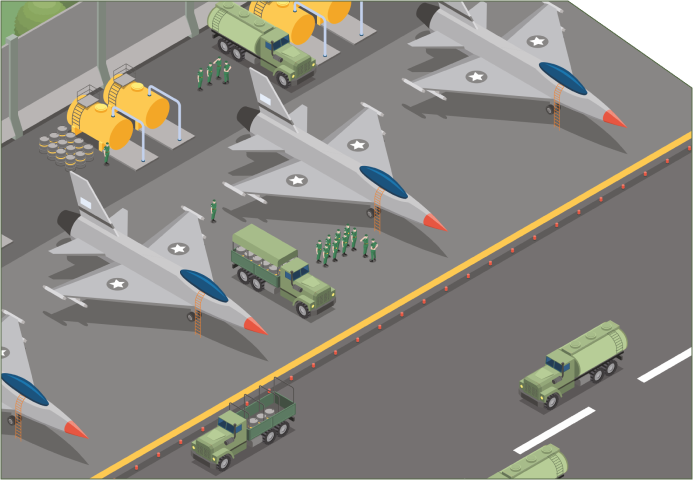
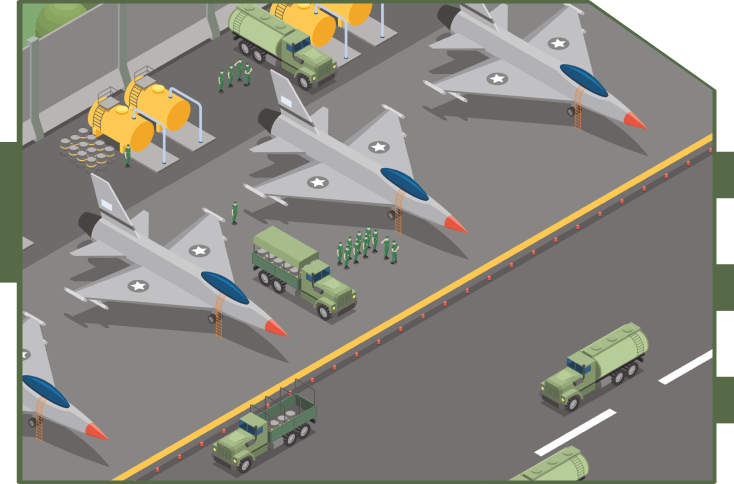
'For wings', 'In unity' and footer.

diff --git a/src/components/Wings/Wings.module.css b/src/components/Wings/Wings.module.css
@@ -4,7 +4,6 @@
 }
 
 .wings-wrapper {
-    padding-top: 100px;
     color: var(--white);
     font-family: var(--bold-font-family);
 }
@@ -21,7 +20,7 @@
     display: flex;
     justify-content: space-between;
     margin: 100px 0;
-    height: 480px;
+    gap: 20px;
 }
 
 .wings-text {
@@ -38,25 +37,18 @@
 
 .wings-block1 {
     position: relative;
-    flex: 1 1 40%;
+    flex: 0 0 40%;
     background-image: url('../../assets/img/wings/wings-vector_1.svg');
     background-size: 100% 100%;
     background-repeat: no-repeat;
 }
 
 .wings-block2 {
-    flex: 1 1 60%;
-    background-image: url('../../assets/img/wings/wings-vector_2.svg');
+    position: relative;
+    flex: 0 0 57%;
+    background-image: url('../../assets/img/wings/airfield.png');
     background-size: 100% 100%;
     background-repeat: no-repeat;
-}
-
-.wings-block2-img {
-    background-image: url('../../assets/img/wings/airfield.png');
-    background-repeat: no-repeat;
-    margin-top: 2px;
-    margin-left: 40px;
-    background-size: 94.5% 99%;
 }
 
 .wings-block1-text {
@@ -70,7 +62,6 @@
 }
 
 .wings-block2-content {
-    height: 480px;
     display: flex;
     flex-direction: column;
     align-items: center;
@@ -91,4 +82,56 @@
     text-decoration: none;
     font-family: var(--bold-font-family);
     color: var(--button-dark-default);
+}
+
+@media (max-width: 992px) {
+    .wings-block1-text {
+        font-size: 35px;
+        line-height: 1.2;
+    }
+
+    .wings-block2-button {
+        font-size: 25px;
+        margin: 20px 0;
+        padding: 15px 30px;
+    }
+}
+
+@media (max-width: 768px) {
+    .wings-content-wrapper {
+        flex-direction: column;
+        margin: 60px 0;
+    }
+
+    .wings-block1 {
+        min-height: 340px;
+    }
+
+    .wings-block1-text {
+        font-size: 35px;
+        line-height: 1.2;
+    }
+
+    .wings-text {
+        font-size: 30px;
+        line-height: 1.2;
+    }
+}
+
+@media (max-width: 480px) {
+    .wings-block1-text {
+        font-size: 30px;
+    }
+
+    .wings-content-wrapper {
+        margin: 40px 0;
+    }
+
+    .wings-block2-content img {
+        margin-top: -150px;
+    }
+
+    .wings-text {
+        font-size: 20px;
+    }
 }

diff --git a/src/components/Wings/Wings.jsx b/src/components/Wings/Wings.jsx
@@ -17,19 +17,16 @@ const Wings = () => {
               </p>
             </div>
             <div className={styles["wings-block2"]}>
-              <div className={styles["wings-block2-img"]}>
-                <div className={styles["wings-block2-content"]}>
-                  <img src={cotton} alt="cotton" />
-                  <button className={styles["wings-block2-button"]}>
-                    <a href="#">Донат на крила</a>
-                  </button>
-                </div>
+              <div className={styles["wings-block2-content"]}>
+                <img src={cotton} alt="cotton" />
+                <button className={styles["wings-block2-button"]}>
+                  <a href="#">Донат на крила</a>
+                </button>
               </div>
             </div>
           </div>
           <p className={styles["wings-text"]}>
-            Жодний з <span className={styles["span-text"]}>БпЛА “Бекфаєр”</span>{" "}
-            за рік роботи не був втрачений у бойових діях. Невидимі і недосяжні
+            Жодний з <span className={styles["span-text"]}>БпЛА “Бекфаєр”</span> за рік роботи не був втрачений у бойових діях. Невидимі і недосяжні
             для ворога.
           </p>
         </div>

diff --git a/src/components/Strength/Strength.module.css b/src/components/Strength/Strength.module.css
@@ -1,7 +1,7 @@
 .strength {
     background-color: var(--black);
     padding-top: 150px;
-    padding-bottom: 100px;
+    padding-bottom: 80px;
 }
 
 .strength-title {
@@ -47,7 +47,6 @@
     line-height: var(--h4-line-height);
     font-weight: 400;
     border: none;
-
     max-height: 100px;
     padding: 28.5px 96px;
     text-align: end;
@@ -60,4 +59,55 @@
 
 .strength-share-btn:active {
     background-color: var(--button-light-pressing);
+}
+
+@media (max-width: 992px) {
+    .strength {
+        padding-top: 80px;
+        padding-bottom: 60px;
+    }
+
+    .strength-content-wrapper {
+        flex-direction: column;
+        margin-top: 50px;
+    }
+
+    .strength-text {
+        text-align: center;
+    }
+
+    .strength-text-span {
+        text-align: center;
+    }
+
+    .strength-img {
+        transform: rotate(90deg);
+        margin: 50px 0;
+    }
+}
+
+@media (max-width: 768px) {
+    .strength {
+        padding-bottom: 0px;
+    }
+
+    .strength-text {
+        font-size: 30px;
+        line-height: 1;
+    }
+
+    .strength-text-span {
+        line-height: 1;
+        font-size: 30px;
+    }
+
+    .strength-img {
+        height: 100px;
+        margin: 50px 0;
+    }
+
+    .strength-share-btn {
+        padding: 15px 40px;
+        font-size: 30px;
+    }
 }

diff --git a/src/components/Strength/Strength.jsx b/src/components/Strength/Strength.jsx
@@ -11,14 +11,13 @@ const Strength = () => {
       <Container>
         <h2 className={styles['strength-title']}>В єднанні - сила!</h2>
         <div className={styles['strength-content-wrapper']}>
-          <h3 className={styles['strength-text']}>
-            Розповідай друзям про збір.
-            <br /> Окриляй злих птахів.
-            <br />
-            <span className={styles['strength-text-span']}>
+          <div className={styles['strength-text']}>
+            <p>Розповідай друзям про збір.</p>
+            <p>Окриляй злих птахів.</p>
+            <p><span className={styles['strength-text-span']}>
               Наближай перемогу!
-            </span>
-          </h3>
+            </span></p>
+          </div>
 
           <img className={styles['strength-img']} src={plane} alt="" />
 

diff --git a/src/components/layouts/Footer/Footer.jsx b/src/components/layouts/Footer/Footer.jsx
@@ -13,7 +13,6 @@ const Footer = () => {
       <Container className={styles['footer-container']}>
         <div className={styles['footer-social-icons']}>
           <a href="/#"><img src={SiteIcon} alt='Site' /></a>
-          <a href="/#"><img src={FacebookIcon} alt='Facebook' /></a>
           <a href="/#"><img src={LinkedinIcon} alt='Linkedin' /></a>
           <a href="/#"><img src={TelegramIcon} alt='Telegram' /></a>
         </div>

diff --git a/src/components/layouts/Footer/Footer.module.css b/src/components/layouts/Footer/Footer.module.css
@@ -1,6 +1,6 @@
 .footer {
   background-color: var(--black);
-  padding: 130px 0;
+  padding: 130px 0 80px;
   flex: 1;
 }
 
@@ -22,4 +22,10 @@
   font-weight: 400;
   line-height: var(--body-1-line-height);
   color: var(--white);
+}
+
+@media (max-width: 992px) {
+  .footer {
+    padding: 100px 0 50px;
+  }
 }

diff --git a/src/components/layouts/Main/Main.jsx b/src/components/layouts/Main/Main.jsx
@@ -16,8 +16,8 @@ const Main = () => {
       <About />
       <Importance />
       <Backfire />
-      <Strength />
       <Wings />
+      <Strength />
     </div>
   );
 };
